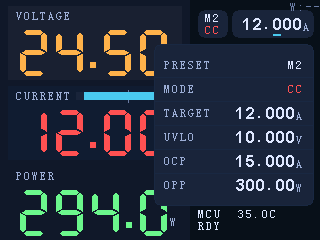
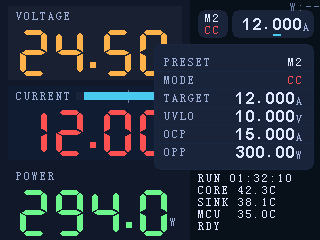
fix(ui): avoid preset preview panel overlap

diff --git a/firmware/digital/src/ui/mod.rs b/firmware/digital/src/ui/mod.rs
@@ -610,7 +610,9 @@ fn draw_preset_preview_panel(canvas: &mut Canvas, data: &UiSnapshot) {
     const RADIUS: i32 = 6;
     const PAD_X: i32 = 10;
     const PAD_Y: i32 = 8;
-    const ROW_H: i32 = 24;
+    // Keep the preview panel above the telemetry/status region (TELEMETRY_TOP=172).
+    // With 6 rows, ROW_H=18 yields panel bottom at y=170 (PANEL_TOP=44), avoiding overlap.
+    const ROW_H: i32 = 18;
     const UNIT_GAP: i32 = 1;
 
     const COLOR_BG: u32 = 0x1c2638;

diff --git a/tools/ui-mock/src/preset_preview_panel.rs b/tools/ui-mock/src/preset_preview_panel.rs
@@ -20,7 +20,7 @@ const BORDER: i32 = 1;
 const RADIUS: i32 = 6;
 const PAD_X: i32 = 10;
 const PAD_Y: i32 = 8;
-const ROW_H: i32 = 24;
+const ROW_H: i32 = 18;
 const UNIT_GAP: i32 = 1;
 
 const COLOR_BG: u32 = 0x1c2638;

diff --git a/docs/dev-notes/on-device-preset-ui.md b/docs/dev-notes/on-device-preset-ui.md
@@ -140,13 +140,13 @@ UI mock（320×240 PNG）：
 
 - 外框（圆角矩形）：
   - `x=154, y=44, w=160`
-  - `h=162`（6 行：含 PRESET/MODE）
+  - `h=126`（6 行：含 PRESET/MODE；`row_h=18`）
   - `radius=6`，`border=1 px`
   - 与主界面 control-row 的垂直关系：`control_row_bottom=38`，面板 `y=44`（间距 6px，严格位于按钮下方）
   - 对齐：面板右边缘 `x+w=314` 与主界面 Setpoint pill 右边缘对齐（允许覆盖右侧信息区）
 - 内容区：
   - `pad_x=10`，`pad_y=8`
-  - `row_h=24`
+  - `row_h=18`（避免与右下角状态行区域重叠）
   - 行分隔线：每行底部 1px，`x=155..313`（即 `PANEL_LEFT+border .. PANEL_RIGHT-border`）
 - 逐行定位（第 `i` 行，从 0 开始）：
   - `row_top = y + border + pad_y + i*row_h`
